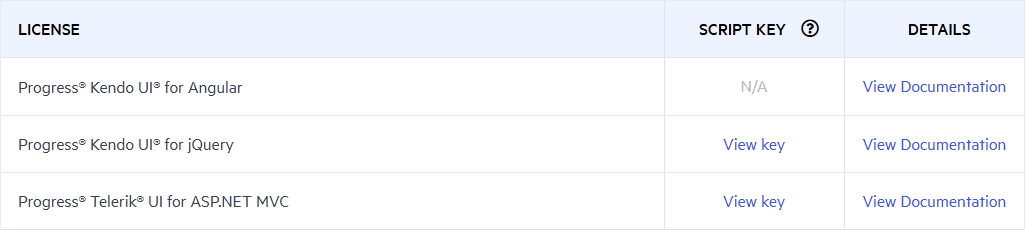
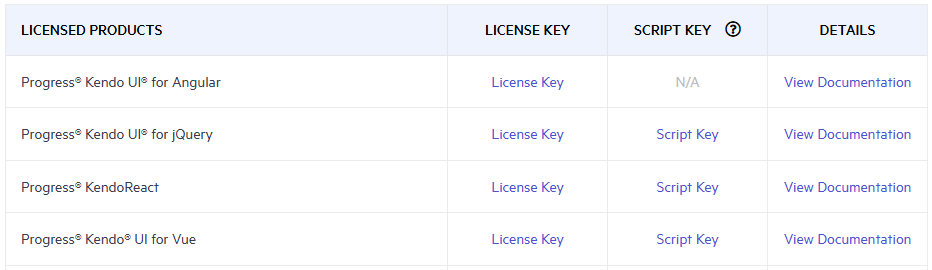
updated ui

diff --git a/distribution-and-licensing/license-key/setting-up-license-key.md b/distribution-and-licensing/license-key/setting-up-license-key.md
@@ -57,7 +57,7 @@ Telerik strongly recommends the use of NuGet packages whenever possible. Only in
 If you’re not using NuGet packages in your project, add the license as a code snippet:
 
 1. Go to the [License Keys](https://www.telerik.com/account/your-licenses/license-keys) page in your Telerik account.
-1. On the corresponding product row, click the **View key** link in the **SCRIPT KEY** column.
+1. On the corresponding product row, click the **Script Key** link in the **SCRIPT KEY** column.
 ![Download Product Key ><](images/download-product-key.png)
 1. Copy the C# code snippet into a new file, for example, TelerikLicense.cs.
 1. Add the TelerikLicense.cs file to your project.
